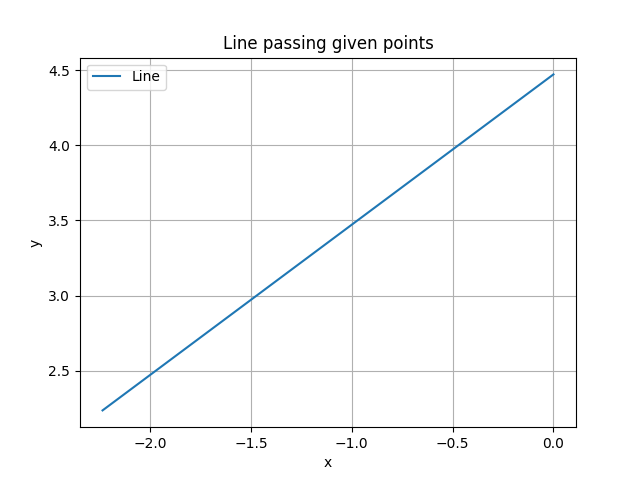
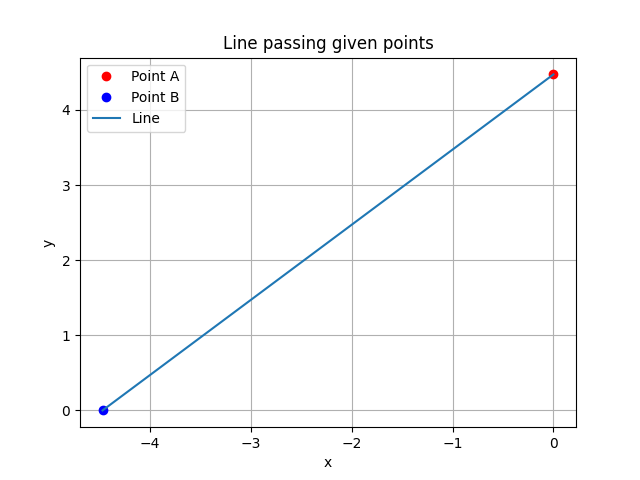
commit

diff --git a/Problem6/codes/points.c b/Problem6/codes/points.c
@@ -8,11 +8,11 @@
 #include "libs/matfun.h"
 #include "libs/geofun.h"
 
-void point_gen(FILE *fptr, double **A, double **B, int num_points) {
+void point_gen(FILE *fptr, double **A, double **B, int no_rows, int no_cols, int num_points) {
     for (int i = 0; i <= num_points; i++) {
-        double **output = Matsec(A, B, 2, (double) i / num_points);
+        double **output = Matadd(A, Matscale(Matsub(B,A,no_rows,no_cols),no_rows,no_cols,i/num_points), no_rows, no_cols);
         fprintf(fptr, "%lf,%lf\n", output[0][0], output[1][0]);
-        freeMat(output,2);
+        freeMat(output,no_rows);
     }
 }
 
@@ -37,7 +37,14 @@ int main() {
         return 1;
     }
 
-    point_gen(fptr, A, B, 20);
+    point_gen(fptr, A, B, m, n, 20);
+    
+    double dist=fabs(Matnorm(Matsub(B, A, m, n), m));
+    
+    // Compare the distance with 2 * sqrt(10) using a tolerance
+    if (fabs(dist - 2 * sqrt(10)) < 1e-6) {
+        fprintf(fptr,"The distance between the points is %lf\n", dist);
+    }
     
      // Free all allocated memory
     freeMat(A,m);

diff --git a/Problem6/codes/plot.py b/Problem6/codes/plot.py
@@ -1,16 +1,22 @@
 import numpy as np
 import matplotlib.pyplot as plt
-import os
 
 # Load the points from the text file
-points = np.loadtxt("points.dat", delimiter=',')
+points = np.loadtxt("points.dat", delimiter=',',max_rows=len(list(open("./points.dat")))-1)
 
 # Extract the x and y coordinates
 x = points[:, 0]
 y = points[:, 1]
 
+# Plotting the points A and B
+A = np.array([0, 2 * (5 ** 0.5)])
+B = np.array([-2 * (5 ** 0.5), 0])
+
+plt.figure()  # Create a new figure for the plot
+plt.plot(A[0], A[1], 'ro', label='Point A')  # Red dot for point A
+plt.plot(B[0], B[1], 'bo', label='Point B')  # Blue dot for point B
+
 # Plot the triangle
-plt.figure()
 plt.plot(x, y, label='Line')
 plt.xlabel("x")
 plt.ylabel("y")
@@ -20,3 +26,4 @@ plt.legend()
 
 # Save the plot to figs directory
 plt.savefig('../figs/fig.png')
+plt.show()

diff --git a/Problem6/main.tex b/Problem6/main.tex
@@ -78,7 +78,7 @@ Distance between $\vec{A}$ and $\vec{B}$, $d_1$ is
 \begin{figure}[h!]
    \centering
    \includegraphics[width=0.7\linewidth]{figs/fig.png}
-   \caption{Plot of the triangle}
+   \caption{Plot of the line passing through A and B}
    \label{stemplot}
 \end{figure}
 \end{document}  
